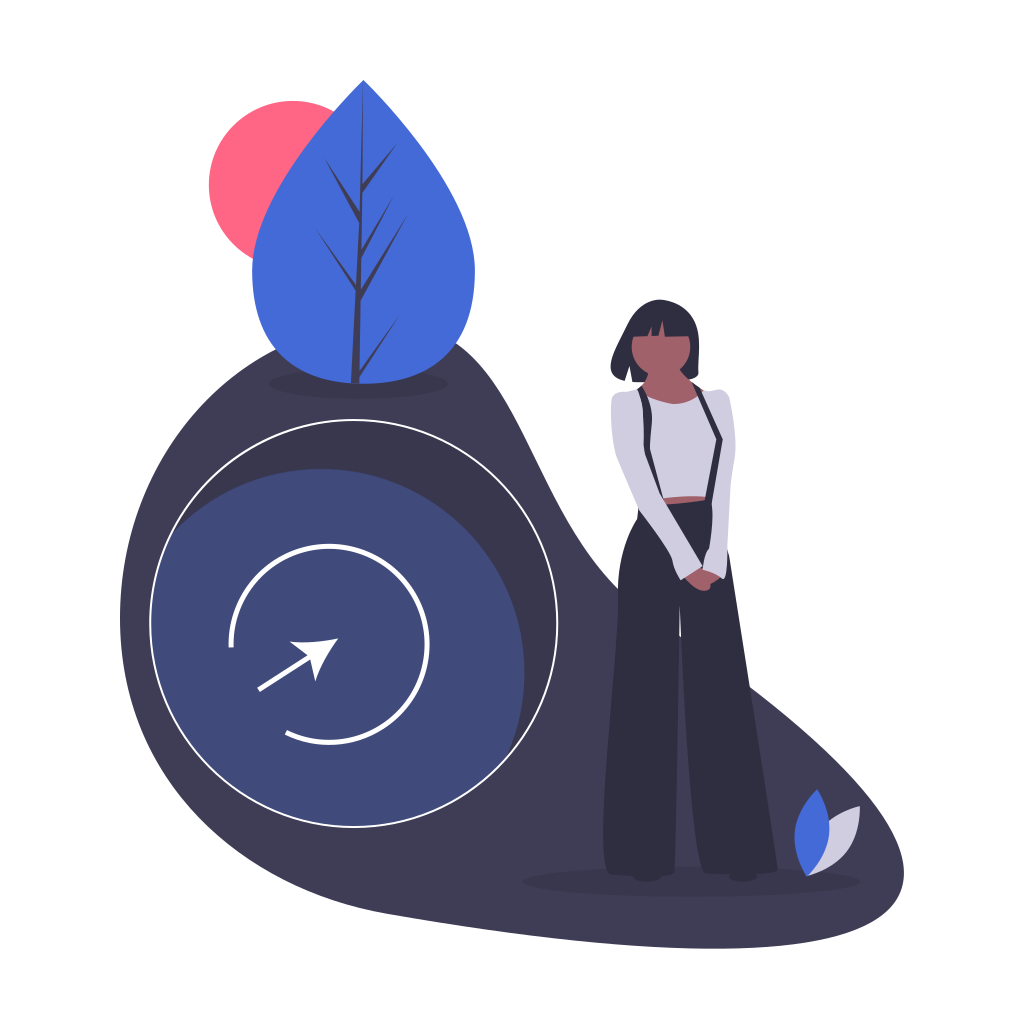
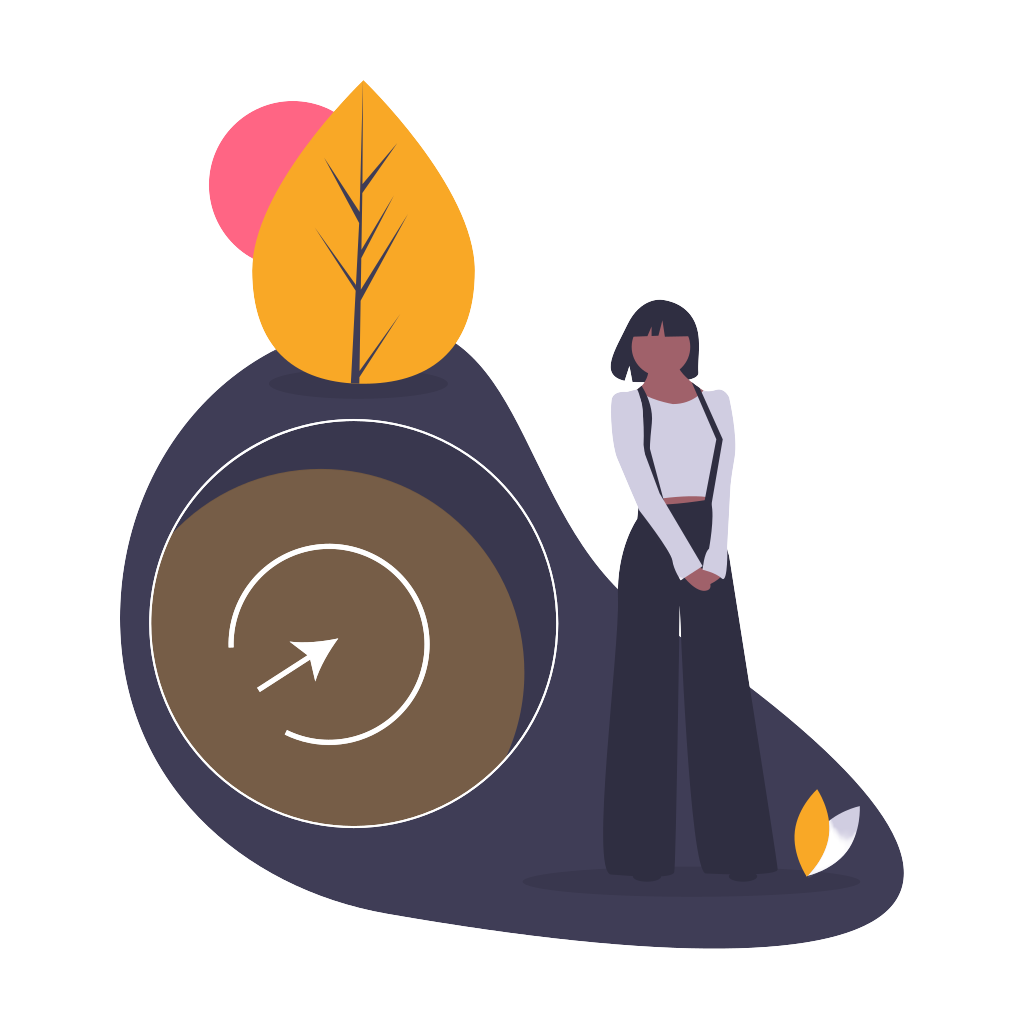
Changes Colors theme of Login related pages

Changed region(s): [[0.125, 0.4354, 0.5312, 0.8086], [0.2188, 0.0622, 0.4688, 0.3732], [0.75, 0.7775, 0.8438, 0.8707]]

diff --git a/templates/forgot-password.html b/templates/forgot-password.html
@@ -24,7 +24,7 @@
 
 </head>
 
-<body class="bg-gradient-primary">
+<body class="bg-warning">
 
     <div class="container">
 
@@ -64,7 +64,7 @@
                                                 placeholder="Enter Email Address..." required>
                                                 <div class="emailFeedBackArea invalid-feedback" style="display:none"></div>
                                         </div>
-                                        <input type="submit" id="loginBtn" value="Send Link" class="btn btn-primary btn-user btn-block">
+                                        <input type="submit" id="loginBtn" value="Send Link" class="btn btn-warning btn-user btn-block">
                                     </form>
                                     <!-- Ends here -->
                                     {% else %}
@@ -95,17 +95,17 @@
                                         <div class="form-group">
                                             <div class="passwordFeedBackArea invalid-feedback" style="display:none"></div>
                                         </div>
-                                        <input type="submit" id="resetBtn" value="Reset Password"  class="btn btn-primary btn-user btn-block">
+                                        <input type="submit" id="resetBtn" value="Reset Password"  class="btn btn-warning btn-user btn-block">
                                     </form>
                                     
                                     {% endif %}
                                     <!-- Ends here -->
                                     <hr>
                                     <div class="text-center">
-                                        <a class="small" href="/register">Create an Account!</a>
+                                        <a class="small" style="color: #ff9800;" href="/register">Create an Account!</a>
                                     </div>
                                     <div class="text-center">
-                                        <a class="small" href="/login">Already have an account? Login!</a>
+                                        <a class="small" style="color: #ff9800;" href="/login">Already have an account? Login!</a>
                                     </div>
                                 </div>
                             </div>

diff --git a/templates/login.html b/templates/login.html
@@ -215,7 +215,7 @@
     </style>
 </head>
 
-<body class="bg-gradient-primary">
+<body class="bg-warning">
       <!-- dark mode toggle -->
   <input type="checkbox" id="toggle" name="checkbox" class="switch" onclick="myfun()">
   <!-- ======= Header ======= -->
@@ -266,7 +266,7 @@
                                                     Me</label>
                                             </div>
                                         </div>
-                                        <input id="loginBtn" class="btn btn-primary btn-user btn-block" type="submit">
+                                        <input id="loginBtn" class="btn btn-warning btn-user btn-block" type="submit">
                                         </a>
                                         <hr>
                                         <a href="/login/google" class="btn btn-google btn-user btn-block">
@@ -278,13 +278,13 @@
                                     </form>
                                     <hr>
                                     <div class="text-center">
-                                        <a class="small" href="/forgot">Forgot Password?</a>
+                                        <a class="small" style="color: #ff9800;"  href="/forgot">Forgot Password?</a>
                                     </div>
                                     <div class="text-center">
-                                        <a class="small" href="/register">Create an Account!</a>
+                                        <a class="small" style="color: #ff9800;" href="/register">Create an Account!</a>
                                     </div>
                                     <div class="text-center">
-                                        <a class="small" href="/resend-link/">Send Activation Link Again</a>
+                                        <a class="small" style="color: #ff9800;" href="/resend-link/">Send Activation Link Again</a>
                                     </div>
                                 </div>
                             </div>

diff --git a/templates/register.html b/templates/register.html
@@ -215,7 +215,7 @@
     </style>
 </head>
 
-<body class="bg-gradient-primary">
+<body class="bg-warning">
      <!-- dark mode toggle -->
   <input type="checkbox" id="toggle" name="checkbox" class="switch" onclick="myfun()">
     <div class="container">
@@ -262,7 +262,7 @@
                                 <div class="row col-md-12">
                                     <div class="passwordFeedBackArea invalid-feedback" style="display:none"></div>
                                 </div>
-                                <input type="submit" id="registerBtn" class="btn btn-primary btn-user btn-block">
+                                <input type="submit" id="registerBtn" class="btn btn-warning btn-user btn-block">
                                 <hr>
                                 <a href="#" class="btn btn-google btn-user btn-block">
                                     <i class="fab fa-google fa-fw"></i> Register with Google
@@ -273,13 +273,13 @@
                             </form>
                             <hr>
                             <div class="text-center">
-                                <a class="small" href="/forgot">Forgot Password?</a>
+                                <a class="small" style="color: #ff9800;" href="/forgot">Forgot Password?</a>
                             </div>
                             <div class="text-center">
-                                <a class="small" href="/login">Already have an account? Login!</a>
+                                <a class="small" style="color: #ff9800;" href="/login">Already have an account? Login!</a>
                             </div>
                             <div class="text-center">
-                                <a class="small" href="/resend-link/">Send Activation Link Again</a>
+                                <a class="small" style="color: #ff9800;" href="/resend-link/">Send Activation Link Again</a>
                             </div>
                         </div>
                     </div>

diff --git a/templates/resend.html b/templates/resend.html
@@ -29,7 +29,7 @@
 
 </head>
 
-<body class="bg-gradient-primary">
+<body class="bg-warning">
 
     <div class="container">
 
@@ -66,15 +66,15 @@
                                             <div class="emailFeedBackArea invalid-feedback" style="display:none"></div>
                                             </div>
                                         
-                                        <input id="resendBtn" class="btn btn-primary btn-user btn-block" value="Send" type="submit">
+                                        <input id="resendBtn" class="btn btn-warning btn-user btn-block" value="Send" type="submit">
                                         
                                     </form>
                                     <hr>
                                     <div class="text-center">
-                                        <a class="small" href="/forgot">Forgot Password?</a>
+                                        <a class="small" style="color: #ff9800;" href="/forgot">Forgot Password?</a>
                                     </div>
                                     <div class="text-center">
-                                        <a class="small" href="/register">Create an Account!</a>
+                                        <a class="small"style="color: #ff9800;" href="/register">Create an Account!</a>
                                     </div>
                                 </div>
                             </div>

diff --git a/static/css/sb-admin-2.css b/static/css/sb-admin-2.css
@@ -140,6 +140,7 @@ strong {
 
 small {
   font-size: 80%;
+  color: yellow;
 }
 
 sub,
@@ -159,7 +160,7 @@ sup {
 }
 
 a {
-  color: #4e73df;
+  color: #ff9800!important;
   text-decoration: none;
   background-color: transparent;
 }
